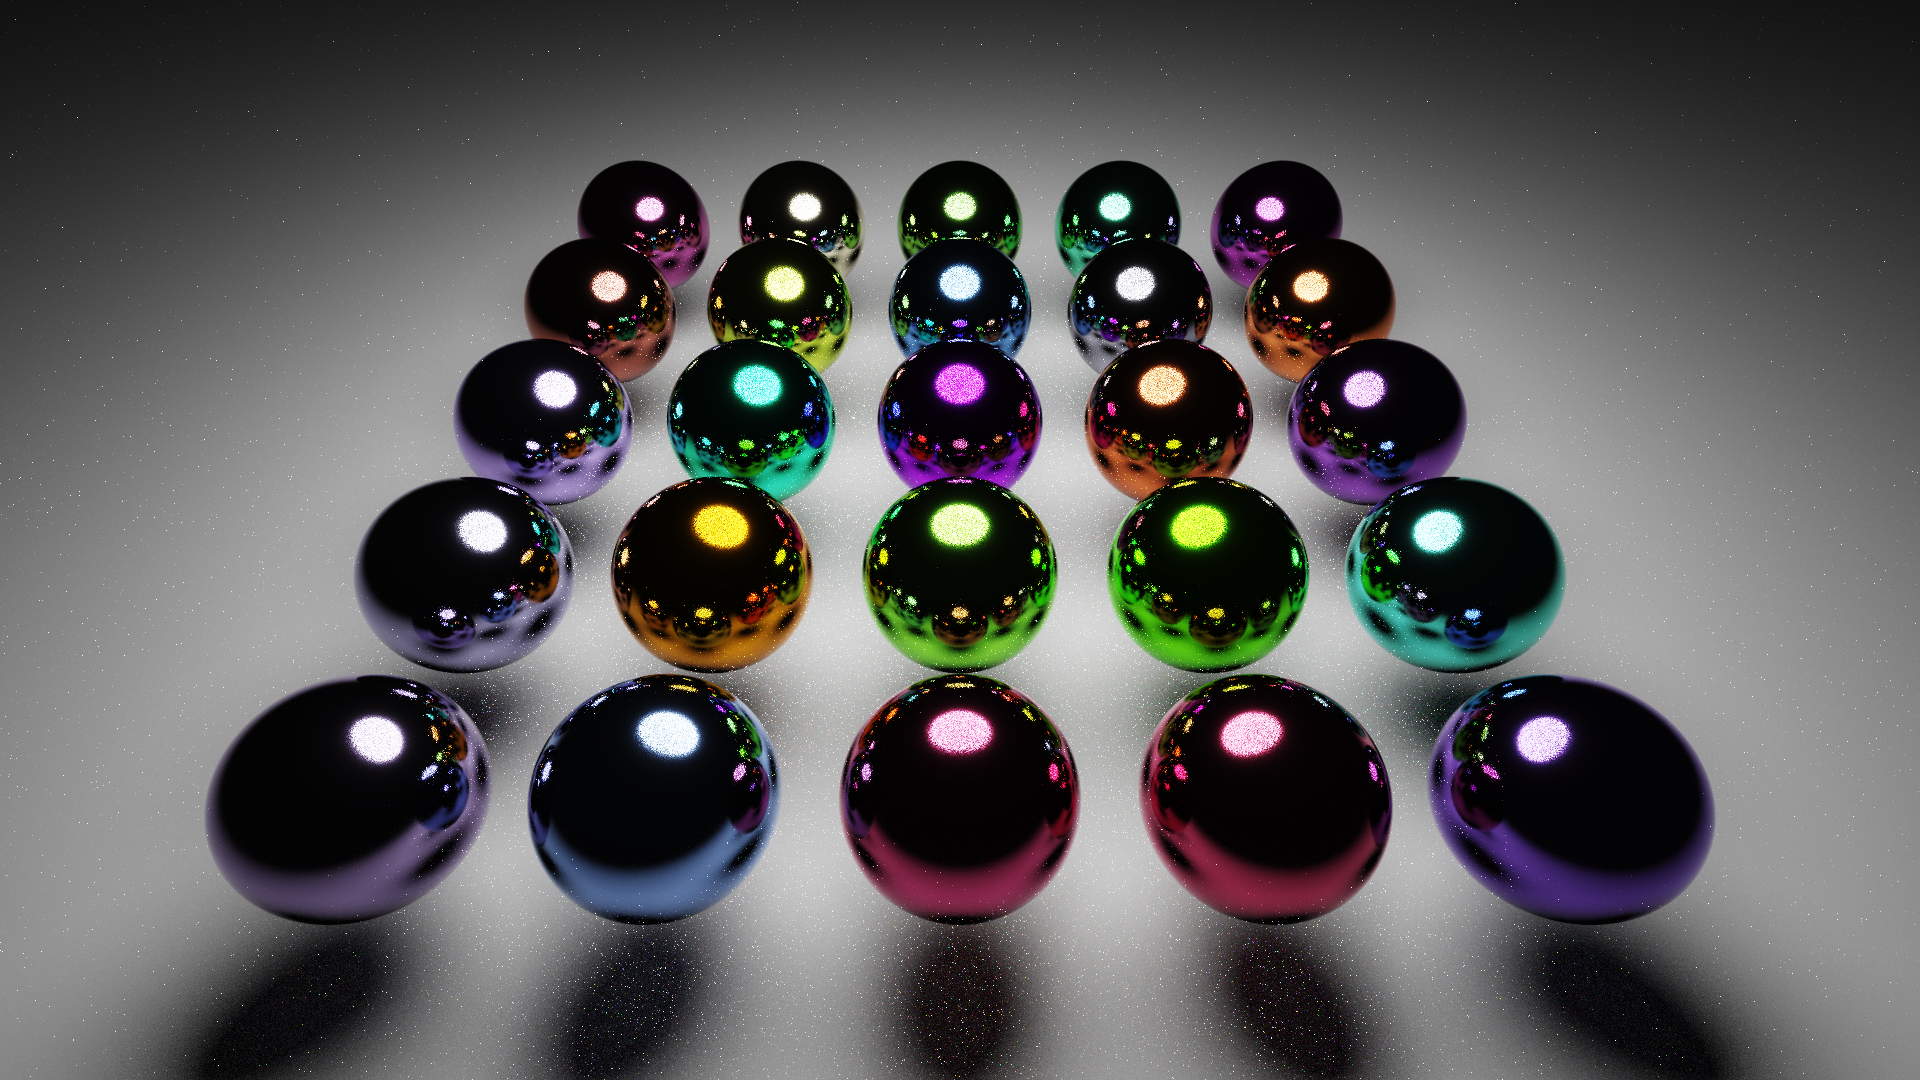
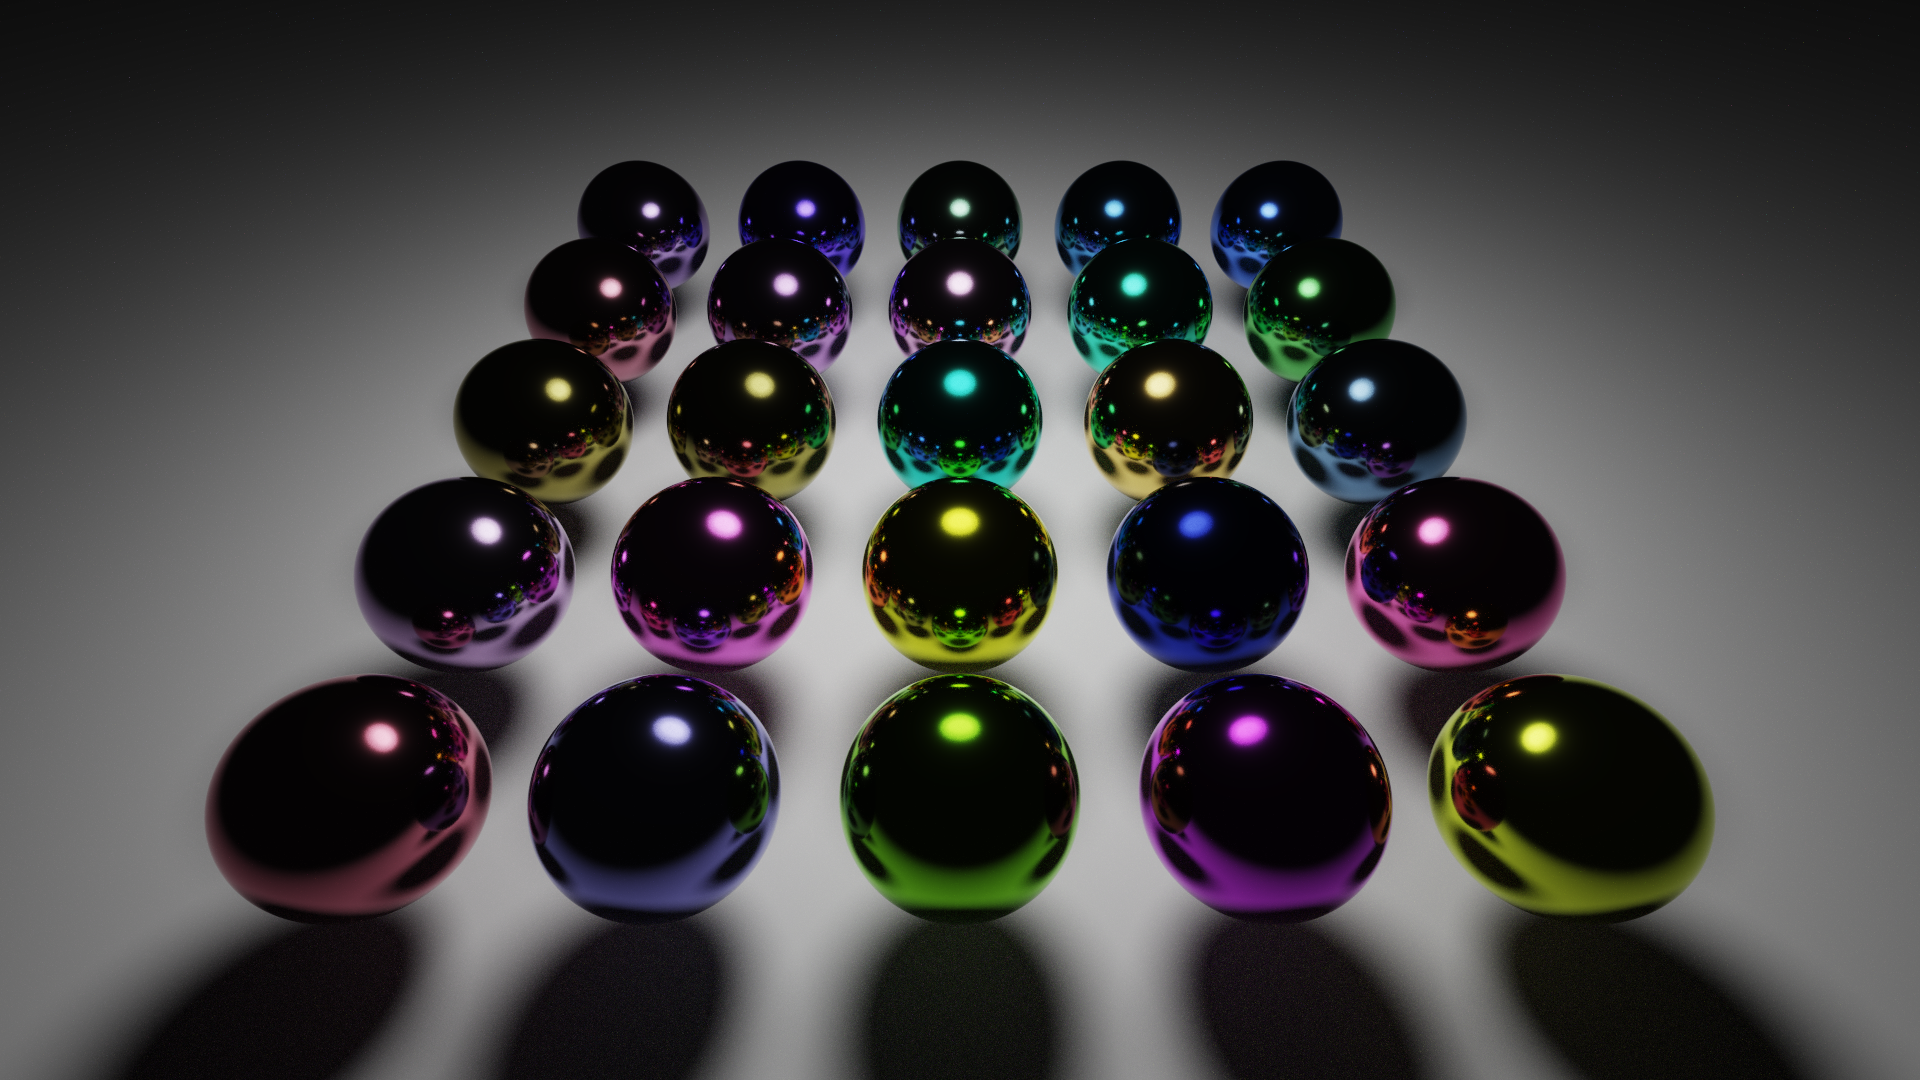
update material

diff --git a/src/scene/meshes/material/material.hpp b/src/scene/meshes/material/material.hpp
@@ -11,6 +11,8 @@
 #define pow2(a) (a)*(a)
 #define pow5(a) (a)*(a)*(a)*(a)*(a)
 
+#include <iostream>
+
 namespace RT_CPU
 {
     class Material
@@ -25,45 +27,6 @@ namespace RT_CPU
         inline const Vec3f getEmissivity() const { return _emissiveColor*_emissiveStrength; }   
         inline const Vec3f getAbsoptivity(float p_d) const { return glm::pow(_absorptionColor,Vec3f(_absorptionDensity)/glm::max(1e-5f,p_d)); }      
 
-        float getDiffusePdf(const Vec3f& N, const Vec3f& L) const {
-            float cosNL = glm::max(0.f, glm::dot(N, L));
-            return cosNL * INV_PIf;
-        }
-        
-        float getSpecularReflectPDF(const Vec3f& V, const Vec3f& N, const Vec3f& H, const Vec3f& L) {
-            float roughness = glm::clamp(_roughness, 0.04f, 0.999f);
-            float r = roughness * roughness;
-            float r2 = r * r;
-            
-            float cosNV = glm::max(1e-5f, glm::abs(glm::dot(N, V)));
-            float cosNL = glm::max(0.f, glm::dot(N, L));
-            float cosNH = glm::clamp(glm::dot(N, H), 0.f, 1.f-1e-10f);
-
-            float XL = glm::sqrt(r2 + (1.f - r2) * cosNL * cosNL);
-            float G1L = 2.f * cosNL / glm::max(1e-5f, (cosNL + XL));
-            float D = r2/glm::max(1e-10f,(PIf*pow2((cosNH*cosNH)*(r2-1.f)+1.f)));
-            
-            return D * G1L / 4.f*cosNV;
-        }
-
-        float getSpecularRefractPDF(const Vec3f& V, const Vec3f& N, const Vec3f& H, const Vec3f& L, float p_ni, float p_no) { 
-            float roughness = glm::clamp(_roughness, 0.04f, 0.999f);
-            float r = roughness * roughness;
-            float r2 = r * r;
-
-            float cosNV = glm::max(1e-5f, glm::abs(glm::dot(N, V)));
-            float cosNL = glm::max(0.f, glm::dot(-N, L));
-            float cosNH = glm::clamp(glm::dot(N, H), 0.f, 1.f-1e-10f);
-            float cosHV = glm::max(0.f, glm::dot(H, V));
-            float cosHL = glm::max(1e-5f, glm::dot(-H, L));
-
-            float XL = glm::sqrt(r2 + (1.f - r2) * cosNL * cosNL);
-            float G1L = 2.f * cosNL / glm::max(1e-5f, (cosNL + XL));
-            float D = r2/glm::max(1e-10f,(PIf*pow2((cosNH*cosNH)*(r2-1.f)+1.f)));
-                
-            return D * G1L * cosHV*cosHL*pow2(p_no/p_ni)/(cosNV*pow2(cosHV+(p_no/p_ni)*cosHL));
-        }
-
         Vec3f evaluateBSDF(const Vec3f& V, const Vec3f& N, const Vec3f& L, float p_ni, float p_no, float& p_pdf) {
             Vec3f baseColor = Vec3f(_albedo);
             float alpha = _albedo.a;
@@ -74,7 +37,10 @@ namespace RT_CPU
             // float ry = glm::max(r*(1.f-anisotropy), 0.001);
             float r2 = r * r;
             
-            Vec3f H = (glm::dot(N,L)<0.f) ? -glm::normalize(p_no*V+p_ni*L) : glm::normalize(V + L); //   H=-normalize(p_ni*L+p_no*V)     // Wo==V // Wi==L // p_ni==etaI // p_no==etaT
+            Vec3f H = (glm::dot(N, L)<0.f) ? -(p_no * V + p_ni * L) : V + L;
+            if(glm::dot(H,H)==0.f) H = V;
+            H = glm::normalize(H);
+            if(glm::dot(H,V)<0.f) H = -H;
             
             float cosNV = glm::max(1e-5f, glm::abs(glm::dot(N, V)));
             float cosNH = glm::clamp(glm::dot(N, H), 0.f, 1.f-1e-10f);
@@ -88,22 +54,24 @@ namespace RT_CPU
 
             if(glm::dot(N,L)<0.f){
                 float cosNL = glm::max(0.f, glm::dot(-N, L));
-                float cosHL = glm::max(1e-5f, glm::dot(-H, L));
-                /*
-                //float G1L = 2.f * cosNL / glm::max(1e-5f, (cosNL + XL));
-                //float G1V = 2.f * cosNV / glm::max(1e-5f, (cosNV + XV));
-                //float G2 = 2.f * cosNL * cosNV / glm::max(1e-5f, (cosNV * XL + cosNL * XV));
-                */
+                float cosHL = glm::max(0.f, glm::dot(-H, L));               
 
                 // ------------ SPECULAR REFRACTION ------------
                 float D = r2/glm::max(1e-10f,(PIf*pow2((cosNH*cosNH)*(r2-1.f)+1.f)));
                 //float D = 1.f/glm::max(1e-10f,(PIf*rx*ry*pow2(pow2(cosHT/rx)+pow2(cosHB/ry)+cosNH*cosNH)));
+                
+                float XL = glm::sqrt(r2 + (1.f - r2) * cosNL * cosNL); // glm::sqrt(rx*rx*cosLT*cosLT + ry*ry*cosLB*cosLB + cosNL*cosNL)
+                float G1L = 2.f * cosNL / glm::max(1e-5f, (cosNL + XL));
+                //float G2 = 2.f * cosNL * cosNV / glm::max(1e-5f, (cosNV * XL + cosNL * XV));
                 float V2 = 2.f/glm::max(1e-5f,(cosNL*glm::sqrt(r2+(1.f-r2)*cosNV*cosNV) + cosNV*glm::sqrt(r2+(1.f-r2)*cosNL*cosNL))); // max ?
                 //float V2 = 2.f/glm::max(1e-5f, cosNL*glm::sqrt(rx*rx*cosVT*cosVT + ry*ry*cosVB*cosVB + cosNV*cosNV) + cosNV*glm::sqrt(rx*rx*cosLT*cosLT + ry*ry*cosLB*cosLB + cosNL*cosNL) );
+                
                 Vec3f specularRefraction = glm::sqrt(baseColor) * (1.f-DielF) * D * V2 * cosHL * cosHV / pow2(cosHV + (p_no/p_ni)*cosHL);
-            
+                float pdfSpecularRefraction = D * G1L * cosHV * cosHL * pow2(p_no/p_ni) / glm::max(1e-5f,(cosNV*pow2(cosHV+(p_no/p_ni)*cosHL)));
+
                 // (_alphaCutoff!=0.f && !(_alphaCutoff==1.f && randomFloat()<alpha) && _alphaCutoff>=alpha)
-                p_pdf = getSpecularRefractPDF(V,N,H,L,p_ni,p_no)/totalRate;
+                p_pdf = (pdfSpecularRefraction*specularRefractionRate)/totalRate;
+                //if(glm::dot(-H, L) <=0.f) std::cout << "dotHL : " << glm::dot(-H, L) << std::endl;
 
                 return alpha * (specularRefraction*specularRefractionRate) / totalRate * cosNL;
             }
@@ -114,20 +82,27 @@ namespace RT_CPU
             // ------------ SPECULAR REFLECTION ------------
             Vec3f f0 = glm::mix(VEC3F_ONE, baseColor, _metalness);
             Vec3f F = schlick(f0, VEC3F_ONE, cosHV);
+            
             float D = r2 / glm::max(1e-10f, (PIf * pow2((cosNH * cosNH) * (r2 - 1.f) + 1.f)));
             //float D = 1.f/glm::max(1e-10f,(PIf*rx*ry*pow2(pow2(cosHT/rx)+pow2(cosHB/ry)+cosNH*cosNH)));
+            
+            float XV = glm::sqrt(r2 + (1.f - r2) * cosNV * cosNV); // glm::sqrt(rx*rx*cosVT*cosVT + ry*ry*cosVB*cosVB + cosNV*cosNV)
+            float G1V = 2.f * cosNV / glm::max(1e-5f, (cosNV + XV));
             float V2 = 0.5f / glm::max(1e-5f, (cosNL * glm::sqrt(r2 + (1.f - r2) * cosNV * cosNV) + cosNV * glm::sqrt(r2 + (1.f - r2) * cosNL * cosNL))); // max ?
             //float V2 = 0.5f/glm::max(1e-5f, cosNL*glm::sqrt(rx*rx*cosVT*cosVT + ry*ry*cosVB*cosVB + cosNV*cosNV) + cosNV*glm::sqrt(rx*rx*cosLT*cosLT + ry*ry*cosLB*cosLB + cosNL*cosNL) );
+            
             Vec3f specularReflection = F * D * V2;
+            float pdfSpecularReflection = D * G1V / (4.f*cosNV);
 
             // ------------ DIFFUSE ------------
             float Rr = r * 2.f * cosHL * cosHL + 0.5f;
             float Fl = pow5(1.f - cosNL);
             float Fv = pow5(1.f - cosNV);
             Vec3f diffuse = baseColor * ((1.f - 0.5f * Fl) * (1.f - 0.5f * Fv) + Rr * (Fl + Fv + Fl * Fv * (Rr - 1.f))) * INV_PIf;
+            float pdfDiffuse = cosNL * INV_PIf;
 
             // (_alphaCutoff!=0.f && !(_alphaCutoff==1.f && randomFloat()<alpha) && _alphaCutoff>=alpha)
-            p_pdf = getDiffusePdf(N,L)*diffuseRate + getSpecularReflectPDF(V,N,H,L)*specularReflectionRate / totalRate;
+            p_pdf = (pdfDiffuse*diffuseRate + pdfSpecularReflection*specularReflectionRate) / totalRate;
 
             return alpha * (diffuse*diffuseRate + specularReflection*specularReflectionRate) / totalRate * cosNL;
         }

diff --git a/src/scene/scene.cpp b/src/scene/scene.cpp
@@ -50,8 +50,8 @@ namespace RT_CPU
 
 		if(p_id==0){ // material test
 			_camera = new CameraPerspective(Vec3f(0.f, -8.f, 16.f), Vec3f(0.f, -1.f, 2.f), PIf / 3.f, 1.f, aspectRatio);
-			_lights.push_back(new QuadLight(Vec3f(0.f, 0.f, 50.f), glm::normalize(Vec3f(0.f, 0.f, -1.f)), VEC3F_ONE, 100.f, Vec3f(10.f,0.f,0.f), Vec3f(0.f,10.f,0.f)));
-			//_lights.push_back(new PonctualLight(Vec3f(0.f, 0.f, 50.f), glm::normalize(Vec3f(0.f, 0.f, -1.f)), VEC3F_ONE, 10000.f, -PIf, -PIf));
+			//_lights.push_back(new QuadLight(Vec3f(0.f, 0.f, 50.f), glm::normalize(Vec3f(0.f, 0.f, -1.f)), VEC3F_ONE, 100.f, Vec3f(10.f,0.f,0.f), Vec3f(0.f,10.f,0.f)));
+			_lights.push_back(new PonctualLight(Vec3f(0.f, 0.f, 50.f), glm::normalize(Vec3f(0.f, 0.f, -1.f)), VEC3F_ONE, 10000.f, -PIf, -PIf));
 			
 			_meshes.push_back(new Plane(Vec3f(0.f, 0.f, 0.f), Vec3f(0., 0., 1.f)));
 			_materials.push_back(new Material(Vec4f(0.5f, 0.5f, 0.5f, 1.f), 0.f, VEC3F_ZERO, 0.f, 0.f, 1.f, 0.f, VEC3F_ZERO, 0.f, 1.f));
@@ -99,15 +99,15 @@ namespace RT_CPU
 
 			for(int i=0; i<_meshes.size() ;i++) _meshes[i]->setMaterial(_materials[i]);
 
-		}/*else if (p_id == 1) { // fractal test
+		}else if (p_id == 1) { // fractal test
 			_camera = new CameraPerspective(Vec3f(0.f, -4.f, 3.f), Vec3f(0.f, 0.f, 1.f), PIf / 3.f, 1.f, aspectRatio);
 
-			_materials.push_back(new Material(Vec3f(1.f, 1.f, 1.f)    , VEC3F_ONE , 5.f, 0.f, 1.f, 0.f, VEC3F_ZERO, 0.f, 1.f));
-			_materials.push_back(new Material(Vec3f(1.f, 1.f, 1.f)    , VEC3F_ZERO, 0.f, 1.f, 1.f, 0.f, VEC3F_ZERO, 0.f, 1.f));
-			_materials.push_back(new Material(Vec3f(1.f, 0.f, 0.f)    , VEC3F_ZERO, 0.f, 1.f, 1.f, 0.f, VEC3F_ZERO, 0.f, 1.f));
-			_materials.push_back(new Material(Vec3f(0.f, 1.f, 0.f)    , VEC3F_ZERO, 0.f, 1.f, 1.f, 0.f, VEC3F_ZERO, 0.f, 1.f));
-			_materials.push_back(new Material(Vec3f(0.8f, 0.235f, 0.f), VEC3F_ZERO, 0.f, 1.f, 0.5f, 0.f, VEC3F_ZERO, 0.f, 1.f));
-			_materials.push_back(new Material(Vec3f(0.f, 0.235f, 0.8f), VEC3F_ZERO, 0.f, 1.f, 0.5f, 0.f, VEC3F_ZERO, 0.f, 1.f));
+			_materials.push_back(new Material(Vec4f(1.f, 1.f, 1.f, 1.f), 0.f, VEC3F_ONE , 5.f, 0.f, 1.f, 0.f, VEC3F_ZERO, 0.f, 1.f));
+			_materials.push_back(new Material(Vec4f(1.f, 1.f, 1.f, 1.f), 0.f, VEC3F_ZERO, 0.f, 1.f, 1.f, 0.f, VEC3F_ZERO, 0.f, 1.f));
+			_materials.push_back(new Material(Vec4f(1.f, 0.f, 0.f, 1.f), 0.f, VEC3F_ZERO, 0.f, 1.f, 1.f, 0.f, VEC3F_ZERO, 0.f, 1.f));
+			_materials.push_back(new Material(Vec4f(0.f, 1.f, 0.f, 1.f), 0.f, VEC3F_ZERO, 0.f, 1.f, 1.f, 0.f, VEC3F_ZERO, 0.f, 1.f));
+			_materials.push_back(new Material(Vec4f(0.8f, 0.235f, 0.f, 1.f), 0.f, VEC3F_ZERO, 0.f, 1.f, 0.5f, 0.f, VEC3F_ZERO, 0.f, 1.f));
+			_materials.push_back(new Material(Vec4f(0.f, 0.235f, 0.8f, 1.f), 0.f, VEC3F_ZERO, 0.f, 1.f, 0.5f, 0.f, VEC3F_ZERO, 0.f, 1.f));
 			
 			_meshes.push_back(new Plane(Vec3f(0.f, 0.f, 10.f), Vec3f(0.f, 0.f, -1.f)));
 			_meshes.push_back(new Plane(Vec3f(0.f, 0.f, 0.f), Vec3f(0.f, 0.f, 1.f)));
@@ -130,8 +130,8 @@ namespace RT_CPU
 		} else if (p_id == 2) { // infinite fractal test
 			_camera = new CameraPerspective(Vec3f(-3.f, 1.f, 5.f), Vec3f(-3.f, 0.f, 5.f), PIf / 3.f, 1.f, aspectRatio);
 
-			_materials.push_back(new Material(Vec3f(1.f, 1.f, 1.f), VEC3F_ONE, 20.f, 0.f, 1.f, 0.f, VEC3F_ZERO, 0.f, 1.f));
-			_materials.push_back(new Material(Vec3f(0.35f, 0.2f, 0.05f), VEC3F_ZERO, 0.f, 0.75f, 0.5f, 0.f, VEC3F_ZERO, 0.f, 1.f));
+			_materials.push_back(new Material(Vec4f(1.f, 1.f, 1.f, 1.f), 0.f, VEC3F_ONE, 20.f, 0.f, 1.f, 0.f, VEC3F_ZERO, 0.f, 1.f));
+			_materials.push_back(new Material(Vec4f(0.35f, 0.2f, 0.05f, 1.f), 0.f, VEC3F_ZERO, 0.f, 0.75f, 0.5f, 0.f, VEC3F_ZERO, 0.f, 1.f));
 
 			_meshes.push_back(new Plane(Vec3f(0.f, 0.f, 10.f), Vec3f(0.f,0.f,-1.f)));
 			_meshes.push_back(new ApolloniusImplicit(VEC3F_ZERO,1.f));
@@ -142,7 +142,7 @@ namespace RT_CPU
 			_camera = new CameraPerspective(Vec3f(-3.47f, -1.35f, 1.7f), Vec3f(0.f, 0.f, 0.f), PIf / 3.f, 1.f, aspectRatio);
 			_lights.push_back(new QuadLight(Vec3f(0.f, 0.f, 2.8f), glm::normalize(Vec3f(0.f, 0.f, -1.f)), VEC3F_ONE, 2.5f, Vec3f(4.f, 0.f, 0.f), Vec3f(0.f, 4.f, 0.f)));
 			//_lights.push_back(new PonctualLight(Vec3f(0.f, 0.f, 2.8f), glm::normalize(Vec3f(0.f, 0.f, -1.f)), VEC3F_ONE, 30.f, -PIf, -PIf));
-			_materials.push_back(new Material(Vec3f(0.5f, 0.5f, 0.5f), VEC3F_ZERO, 0.f, 0.f, 1.f, 0.f, VEC3F_ZERO, 0.f, 1.f));
+			_materials.push_back(new Material(Vec4f(0.5f, 0.5f, 0.5f, 1.f), 0.f, VEC3F_ZERO, 0.f, 0.f, 1.f, 0.f, VEC3F_ZERO, 0.f, 1.f));
 			_loadGltf("assets/conference_dragon_and_bunny.glb");
 		} else if (p_id == 4) {
 			//_camera = new CameraPerspective(Vec3f(0.f, -2.f, 2.f), Vec3f(0.f, 0.f, 1.f), PIf / 3.f, 1.f, aspectRatio);
@@ -153,19 +153,20 @@ namespace RT_CPU
 			//_camera = new CameraFisheye(Vec3f(0.f, -8.f, 8.f), Vec3f(0.f, -2.f, 2.f), 1.f);
 
 			_meshes.push_back(new Plane(Vec3f(0.f, 0.f, 0.f), Vec3f(0., 0., 1.f)));
-			_materials.push_back(new Material(Vec3f(0.5f, 0.5f, 0.5f), VEC3F_ZERO, 0.f, 0.f, 1.f, 0.f, VEC3F_ZERO, 0.f, 1.f));
+			_materials.push_back(new Material(Vec4f(0.5f, 0.5f, 0.5f, 1.f), 0.f, VEC3F_ZERO, 0.f, 0.f, 1.f, 0.f, VEC3F_ZERO, 0.f, 1.f));
 
+			//_lights.push_back(new DirectionalLight(Vec3f(0.f, 0.f, 0.f), glm::normalize(Vec3f(0.f,0.f,-1.f)), VEC3F_ONE, 3.f, 0.f));
 			//_lights.push_back(new DirectionalLight(Vec3f(0.f, 0.f, 0.f), glm::normalize(Vec3f(0.f,0.f,-1.f)), VEC3F_ONE, 3.f, PIf/10.f));
 			//_lights.push_back(new PonctualLight(Vec3f(0.f, 0.f, 10.f), glm::normalize(Vec3f(0.f, 0.f, -1.f)), VEC3F_ONE, 300.f, -PIf, -PIf));
 			//_lights.push_back(new PonctualLight(Vec3f(0.f, 0.f, 10.f), glm::normalize(Vec3f(0.f, 0.f, -1.f)), VEC3F_ONE, 300.f, PIf/5.f, PIf/3.f));
-			_lights.push_back(new QuadLight(Vec3f(0.f, 0.f, 10.f), glm::normalize(Vec3f(0.f, 0.f, -1.f)), VEC3F_ONE, 300.f, Vec2f(4.f,0.f), Vec2f(4.f,0.f)));
-			//_lights.push_back(new DiskLight(Vec3f(0.f, 0.f, 10.f), glm::normalize(Vec3f(0.f, 0.f, 1.f)), VEC3F_ONE, 10.f, 4.f));
+			//_lights.push_back(new QuadLight(Vec3f(0.f, 0.f, 10.f), glm::normalize(Vec3f(0.f, 0.f, -1.f)), VEC3F_ONE, 20.f, Vec2f(4.f,0.f), Vec2f(0.f,4.f)));
+			//_lights.push_back(new DiskLight(Vec3f(0.f, 0.f, 10.f), glm::normalize(Vec3f(0.f, 0.f, -1.f)), VEC3F_ONE, 25.f, 2.f));
 			//_lights.push_back(new SphereLight(Vec3f(0.f, 0.f, 10.f), glm::normalize(Vec3f(0.f, 0.f, -1.f)), VEC3F_ONE, 3.f, 4.f, -PIf, -PIf));
-			//_lights.push_back(new SphereLight(Vec3f(0.f, 0.f, 10.f), glm::normalize(Vec3f(0.f, 0.f, -1.f)), VEC3F_ONE, 3.f, 4.f, PIf/5.f, PIf/3.f));
+			_lights.push_back(new SphereLight(Vec3f(0.f, 0.f, 10.f), glm::normalize(Vec3f(0.f, 0.f, -1.f)), VEC3F_ONE, 3.f, 4.f, PIf/5.f, PIf/3.f));
 
 			for (int i = 0; i < 5; i++)
 				for (int j = 0; j < 5; j++) {
-					_materials.push_back(new Material(Vec3f(randomFloat(), randomFloat(), randomFloat()), VEC3F_ZERO, 0.f, 1.f, 0.1f, 0.f, VEC3F_ZERO, 0.f, 1.5f));
+					_materials.push_back(new Material(Vec4f(randomFloat(), randomFloat(), randomFloat(), 1.f), 0.f, VEC3F_ZERO, 0.f, 1.f, 0.1f, 0.f, VEC3F_ZERO, 0.f, 1.5f));
 					_meshes.push_back(new Sphere(Vec3f(-5.f + i * 2.5f, -5.f + j * 2.5f, 2.f), 1.f));
 				}
 
@@ -178,7 +179,7 @@ namespace RT_CPU
 
 			for(int i=0; i<_meshes.size() ;i++) _meshes[i]->setMaterial(_materials[i]);
 						
-		}*/
+		}
 
 		_bvh.build(&_meshes);
 	}

diff --git a/src/renderer/renderer.hpp b/src/renderer/renderer.hpp
@@ -91,35 +91,21 @@ namespace RT_CPU
 					
 					for (Light* light : p_scene.getLights()) {
 						Vec3f lightRadiosity = VEC3F_ZERO;
-						for (int i = 0; i < light->getNbShadowRay();i++) {
+						for(int i=0; i<light->getNbShadowRay() ;i++) {
 							LightSample lightSample = light->sample(hitRecord._point, i);
 							Ray shadowRay = Ray(hitRecord._point, lightSample._direction);
 							shadowRay.offset((glm::dot(hitRecord._normal,lightSample._direction)<0.f) ? -hitRecord._normal : hitRecord._normal);
 
-							//if (inside) break;
-							//if (glm::dot(hitRecord._normal, shadowRay.getDirection()) > 0.f && glm::dot(hitRecord._normal, -currentRay.getDirection()) > 0.f && !p_scene.intersectAny(shadowRay, p_near, lightSample._distance-p_near))
-							if (!p_scene.intersectAny(shadowRay, p_near, lightSample._distance-p_near)){
-								/* --------------- MIS ---------------
-								// https://pbr-book.org/3ed-2018/Monte_Carlo_Integration/Importance_Sampling
-								float powerHeuristic(int nf, float fPdf, int ng, float gPdf){
-									float f = float(nf) * fPdf, g = float(ng) * gPdf;
-									return (f * f) / (f * f + g * g);
-								}
-
-								// float lightpdf = dist_sq/max(1e-5, abs(cosT) * area); // sure ?
-
-								weight = powerHeuristic(1.f,lightSample._pdf, 1.f, bsdf.pdf)
-								lighRadiosity += .... * weight / lightsample._pdf;*/
+							if (!p_scene.intersectAny(shadowRay, p_near, lightSample._distance-p_near)){ // for alpha should return true or false + quantity of shadow ?
 								float bsdfPdf = 1.f;
 								Vec3f bsdfValue = hitRecord._mesh->getMaterial()->evaluateBSDF(-currentRay.getDirection(), hitRecord._normal, lightSample._direction, ni, no, bsdfPdf);
-								float weight = lightSample._pdf*lightSample._pdf/(lightSample._pdf*lightSample._pdf+bsdfPdf*bsdfPdf);
-								lightRadiosity += lightSample._radiance * weight * bsdfValue / glm::max(1e-5f, lightSample._pdf);
+								lightRadiosity += lightSample._radiance * bsdfValue * lightSample._pdf/(lightSample._pdf*lightSample._pdf+bsdfPdf*bsdfPdf); // power heuristic 
 							}
 						}
 						finalColor += rayColor * lightRadiosity / (float)light->getNbShadowRay();
 					}
 
-					if(inside) rayColor *= hitRecord._mesh->getMaterial()->getAbsoptivity(hitRecord._distance);
+					if(inside) rayColor *= hitRecord._mesh->getMaterial()->getAbsoptivity(hitRecord._distance);	// admet que 2 objets transparent ne rentrent jamais en collision (+ manifold)
 					finalColor += hitRecord._mesh->getMaterial()->getEmissivity()*rayColor;
 					currentRay = hitRecord._mesh->getMaterial()->sampleBSDF(currentRay,hitRecord,ni,no,rayColor);
 					

diff --git a/src/scene/lights/surfacic/quad_light.hpp b/src/scene/lights/surfacic/quad_light.hpp
@@ -11,7 +11,7 @@ namespace RT_CPU
 	  public:
 		// len(cross(a,b)) = len(a) * len(b) * sin(a^b)   ==>   area = L * H * sin(u^v)
 		QuadLight( const Vec3f& p_position, const Vec3f& p_direction, const Vec3f& p_color, float p_power, const Vec2f& p_u, const Vec2f& p_v, int p_nbShadowRay = 4)
-			: SurfacicLight( p_position, p_direction, p_color, p_power, glm::length(glm::cross(Vec3f(p_u,0.f), Vec3f(p_v,0.f))), p_nbShadowRay ), _u( p_u ), _v( p_v ), _nbRow(p_nbShadowRay) {}
+			: SurfacicLight( p_position, p_direction, p_color, p_power, 16.f/*glm::length(glm::cross(Vec3f(p_u, 0.f), Vec3f(p_v, 0.f)))*/, p_nbShadowRay), _u(p_u), _v(p_v), _nbRow(p_nbShadowRay) {}
 		~QuadLight() {}
 
 		inline virtual LightSample sample(const Vec3f& p_point, const int p_i) const override {

diff --git a/src/main.cpp b/src/main.cpp
@@ -21,8 +21,8 @@ int main(int argc, char** argv)
 
 		Image img = Image(imgWidth, imgHeight);
 
-		Scene scene = Scene(img, 0);
-		Renderer renderer = Renderer(16,12);
+		Scene scene = Scene(img, 4);
+		Renderer renderer = Renderer(8,12);
 
 		// Launch rendering.
 		std::cout << "Rendering..." << std::endl;
